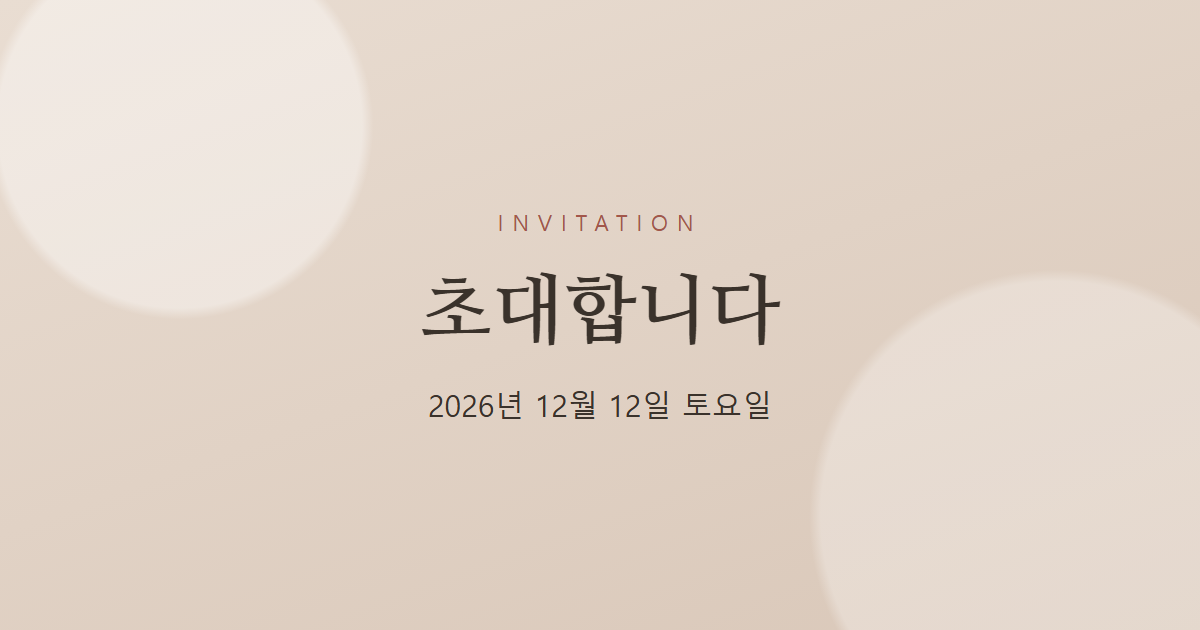
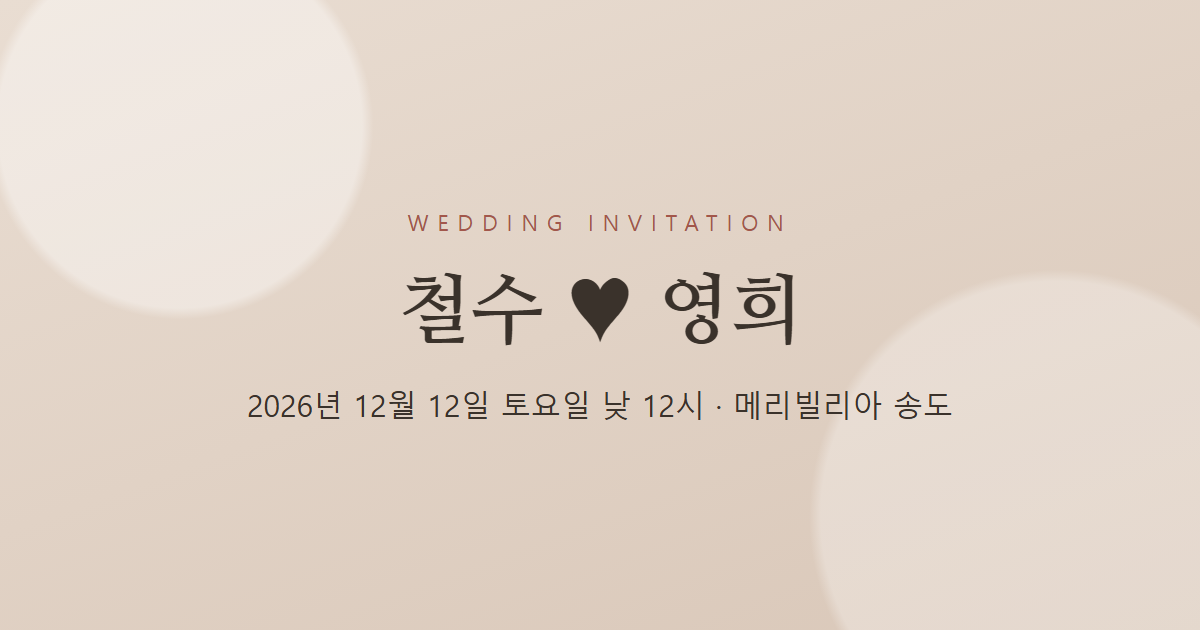
모바일 초대장에 신랑·신부와 예식장 반영, 키 없이도 지도 표시
- 신랑 철수 ♥ 신부 영희, 장소 메리빌리아 송도(인천 연수구 송도과학로16번길 33-1, 트리플스트리트 A동)
- 교통: 인천 1호선 테크노파크역 2번 출구 도보 약 5분
- 카카오 키가 없을 때 안내 문구 대신 구글 지도 삽입으로 위치 표시
- 좌표가 없으면 카카오 키가 있을 때 주소로 좌표를 찾고, 길찾기 링크는 장소 검색으로 연결
- 공유 미리보기 제목·설명·이미지를 신랑·신부 이름과 장소로 갱신

Changed region(s): [[0.3392, 0.4222, 0.6783, 0.5429], [0.185, 0.6032, 0.8017, 0.6635], [0.3392, 0.3317, 0.6475, 0.3619]]

diff --git a/apps/invitation/js/map.js b/apps/invitation/js/map.js
@@ -1,11 +1,25 @@
-// 카카오맵 표시와 길찾기 링크
+// 장소 지도와 길찾기 링크
+// 카카오 키가 있으면 카카오맵, 없거나 실패하면 키가 필요 없는 구글 지도 삽입으로 대신 보여 준다.
+
+function hasCoords(venue) {
+  return Number.isFinite(venue.lat) && Number.isFinite(venue.lng);
+}
 
 export function directionLinks(venue) {
-  const name = encodeURIComponent(venue.name);
+  const query = encodeURIComponent(venue.mapQuery || venue.name);
   return {
-    kakao: `https://map.kakao.com/link/to/${name},${venue.lat},${venue.lng}`,
-    naver: `https://map.naver.com/p/search/${encodeURIComponent(venue.address)}`,
+    // 좌표가 있으면 바로 길찾기, 없으면 장소 검색 결과로 연다
+    kakao: hasCoords(venue)
+      ? `https://map.kakao.com/link/to/${encodeURIComponent(venue.name)},${venue.lat},${venue.lng}`
+      : `https://map.kakao.com/link/search/${query}`,
+    naver: `https://map.naver.com/p/search/${query}`,
   };
+}
+
+// 키 없이 쓸 수 있는 구글 지도 삽입 주소
+export function embedMapUrl(venue) {
+  const q = hasCoords(venue) ? `${venue.lat},${venue.lng}` : (venue.mapQuery || venue.address);
+  return `https://maps.google.com/maps?q=${encodeURIComponent(q)}&z=16&hl=ko&output=embed`;
 }
 
 // 카카오맵 SDK를 한 번만 불러온다. 키가 없거나 실패하면 reject.
@@ -20,7 +34,8 @@ function loadKakaoSdk(key) {
       return;
     }
     const script = document.createElement('script');
-    script.src = `https://dapi.kakao.com/v2/maps/sdk.js?appkey=${encodeURIComponent(key)}&autoload=false`;
+    // services: 좌표가 없을 때 주소로 좌표를 찾는 데 쓴다
+    script.src = `https://dapi.kakao.com/v2/maps/sdk.js?appkey=${encodeURIComponent(key)}&libraries=services&autoload=false`;
     script.async = true;
     script.onload = () => {
       if (window.kakao && window.kakao.maps) window.kakao.maps.load(() => resolve(window.kakao));
@@ -31,17 +46,30 @@ function loadKakaoSdk(key) {
   });
 }
 
-// container: 지도를 넣을 요소, toggle: [지도 크게 보기] 버튼
-// 성공하면 true, 실패하면 false (호출한 쪽이 대체 화면을 보여 준다)
+function geocode(kakao, address) {
+  return new Promise((resolve, reject) => {
+    new kakao.maps.services.Geocoder().addressSearch(address, (result, status) => {
+      if (status === kakao.maps.services.Status.OK && result[0]) {
+        resolve(new kakao.maps.LatLng(Number(result[0].y), Number(result[0].x)));
+      } else {
+        reject(new Error('주소로 위치를 찾지 못했습니다'));
+      }
+    });
+  });
+}
+
+// container: 지도를 넣을 요소, toggle: [지도 움직이기] 버튼
+// 카카오맵을 띄우면 true, 실패하면 false (호출한 쪽이 구글 지도로 대신한다)
 export async function initMap(container, toggle, venue, key) {
   let kakao;
+  let center;
   try {
     kakao = await loadKakaoSdk(key);
+    center = hasCoords(venue) ? new kakao.maps.LatLng(venue.lat, venue.lng) : await geocode(kakao, venue.address);
   } catch {
     return false;
   }
 
-  const center = new kakao.maps.LatLng(venue.lat, venue.lng);
   // 페이지를 넘길 때 지도가 손가락을 잡지 않도록 처음에는 고정
   const map = new kakao.maps.Map(container, { center, level: 4, draggable: false, scrollwheel: false, disableDoubleClickZoom: true });
   map.setZoomable(false);

diff --git a/apps/invitation/js/config.js b/apps/invitation/js/config.js
@@ -2,21 +2,22 @@
 // [임시] 표시가 있는 값은 실제 정보를 받기 전의 자리표시다.
 
 export const CONFIG = {
-  // [임시] 행사 종류와 제목
   type: '결혼식',
-  title: '○○○ ♥ ○○○',
+  title: '철수 ♥ 영희',
   subtitle: '저희 두 사람, 결혼합니다',
 
   // [임시] 행사 일시 — 반드시 한국 시간대(+09:00)를 붙인다
   eventDate: '2026-12-12T12:00:00+09:00',
 
-  // [임시] 장소. 좌표는 주소를 받은 뒤 카카오맵에서 찾아 넣는다 (지금은 서울시청)
+  // 장소. lat/lng를 비워 두면 카카오 키가 있을 때 주소로 좌표를 찾는다.
+  // mapQuery: 키가 없을 때 쓰는 지도와 길찾기 검색어
   venue: {
-    name: '행사장 이름',
-    hall: '3층 그랜드홀',
-    address: '서울특별시 중구 세종대로 110',
-    lat: 37.5666,
-    lng: 126.9784,
+    name: '메리빌리아 송도',
+    hall: '트리플스트리트 A동',
+    address: '인천광역시 연수구 송도과학로16번길 33-1',
+    mapQuery: '메리빌리아 송도',
+    lat: null,
+    lng: null,
   },
 
   // [임시] 초대 인사말 (한 줄씩)
@@ -26,25 +27,23 @@ export const CONFIG = {
     '귀한 걸음 하시어 축복해 주시면',
     '더없는 기쁨으로 간직하겠습니다.',
   ],
-  hosts: '○○○ · ○○○ 드림',
+  hosts: '철수 · 영희 드림',
 
-  // [임시] 교통 안내
+  // 교통 안내 (버스·주차는 예식장에 확인한 뒤 추가)
   transport: [
-    { label: '지하철', text: '1·2호선 시청역 5번 출구에서 걸어서 2분' },
-    { label: '버스', text: '시청앞 정류장 하차' },
-    { label: '주차', text: '건물 지하 주차장 2시간 무료' },
+    { label: '지하철', text: '인천 1호선 테크노파크역 2번 출구에서 걸어서 약 5분' },
   ],
 
-  // [임시] 연락처. phone이 비어 있으면 전화·문자 버튼을 숨긴다
+  // 연락처. phone이 비어 있으면 전화·문자 버튼을 숨긴다
   contacts: [
-    { role: '신랑', name: '○○○', phone: '' },
-    { role: '신부', name: '○○○', phone: '' },
+    { role: '신랑', name: '철수', phone: '' },
+    { role: '신부', name: '영희', phone: '' },
   ],
 
   // 대표 사진. 비워 두면 무늬 배경을 쓴다 (예: 'images/cover.jpg')
   coverImage: '',
 
-  // 카카오 개발자 사이트에서 발급한 JavaScript 키. 비어 있으면 지도 대신 주소와 길찾기 버튼만 보여 준다.
-  // 허용 도메인(localhost, 배포 주소)을 카카오 개발자 콘솔에 꼭 등록한다. REST API 키·Admin 키는 넣지 않는다.
+  // 카카오 개발자 사이트에서 발급한 JavaScript 키. 비어 있으면 키가 필요 없는 구글 지도로 대신 보여 준다.
+  // 허용 도메인(localhost, https://choi-guest.github.io)을 카카오 개발자 콘솔에 꼭 등록한다. REST API 키·Admin 키는 넣지 않는다.
   kakaoJsKey: '',
 };

diff --git a/apps/invitation/index.html b/apps/invitation/index.html
@@ -3,15 +3,15 @@
 <head>
   <meta charset="utf-8">
   <meta name="viewport" content="width=device-width, initial-scale=1, viewport-fit=cover">
-  <title>초대합니다</title>
-  <meta name="description" content="소중한 날에 초대합니다">
+  <title>철수 ♥ 영희 결혼합니다</title>
+  <meta name="description" content="2026년 12월 12일 토요일 낮 12시, 메리빌리아 송도">
   <meta name="theme-color" content="#f7f3ee" media="(prefers-color-scheme: light)">
   <meta name="theme-color" content="#1d1a17" media="(prefers-color-scheme: dark)">
   <!-- 공유 미리보기: 카카오톡·문자 미리보기는 절대 주소여야 한다. 배포 주소가 바뀌면 함께 바꾼다 -->
   <meta property="og:type" content="website">
   <meta property="og:url" content="https://choi-guest.github.io/myblog/apps/invitation/">
-  <meta property="og:title" content="초대합니다">
-  <meta property="og:description" content="2026년 12월 12일 토요일, 소중한 날에 초대합니다">
+  <meta property="og:title" content="철수 ♥ 영희 결혼합니다">
+  <meta property="og:description" content="2026년 12월 12일 토요일 낮 12시, 메리빌리아 송도">
   <meta property="og:image" content="https://choi-guest.github.io/myblog/apps/invitation/images/og.png">
   <meta property="og:image:width" content="1200">
   <meta property="og:image:height" content="630">
@@ -68,9 +68,7 @@
       <p class="venue-address" data-field="address"></p>
       <div class="map-wrap">
         <div class="map" data-map role="region" aria-label="행사장 위치 지도"></div>
-        <div class="map-fallback" data-map-fallback hidden>
-          <p>지도를 불러오지 못했습니다.<br>아래 버튼으로 길찾기를 이용해 주세요.</p>
-        </div>
+        <div class="map-fallback" data-map-fallback hidden></div>
         <button class="map-toggle" type="button" data-map-toggle aria-pressed="false" hidden>지도 움직이기</button>
       </div>
       <div class="button-row">

diff --git a/apps/invitation/js/main.js b/apps/invitation/js/main.js
@@ -2,7 +2,7 @@
 
 import { CONFIG } from './config.js';
 import { getDday, ddayLabel, kstParts, monthGrid, WEEKDAYS, formatEventDate } from './dday.js';
-import { directionLinks, initMap } from './map.js';
+import { directionLinks, embedMapUrl, initMap } from './map.js';
 
 const eventDate = new Date(CONFIG.eventDate);
 const $ = (sel) => document.querySelector(sel);
@@ -121,7 +121,14 @@ async function setupMap() {
 
   const ok = await initMap($('[data-map]'), $('[data-map-toggle]'), CONFIG.venue, CONFIG.kakaoJsKey);
   if (!ok) {
+    // 카카오 키가 없거나 실패: 키가 필요 없는 구글 지도를 넣는다
     $('[data-map]').hidden = true;
+    const frame = el('iframe', 'map-embed');
+    frame.src = embedMapUrl(CONFIG.venue);
+    frame.title = `${CONFIG.venue.name} 위치 지도`;
+    frame.loading = 'lazy';
+    frame.referrerPolicy = 'no-referrer-when-downgrade';
+    $('[data-map-fallback]').replaceChildren(frame);
     $('[data-map-fallback]').hidden = false;
   }
 }

diff --git a/apps/invitation/css/style.css b/apps/invitation/css/style.css
@@ -243,10 +243,16 @@ p { margin: 0; }
   display: flex;
   align-items: center;
   justify-content: center;
-  padding: 24px;
   background: var(--accent-soft);
   color: var(--text-muted);
   font-size: 15px;
+}
+
+.map-embed {
+  display: block;
+  width: 100%;
+  height: 100%;
+  border: 0;
 }
 
 .map-toggle {

diff --git a/apps/invitation/CLAUDE.md b/apps/invitation/CLAUDE.md
@@ -5,7 +5,7 @@
 스마트폰에서 보기 좋은 **모바일 반응형 초대장 웹페이지**. 링크 하나로 열어 보는 한 장짜리 페이지다.
 
 - 프레임워크·빌드 도구 없이 **HTML, CSS, JavaScript만** 쓴다. npm, 번들러, `package.json`을 만들지 않는다.
-- 외부 라이브러리는 쓰지 않는다. 예외는 **카카오맵 JavaScript SDK** 하나다.
+- 외부 라이브러리는 쓰지 않는다. 예외는 **카카오맵 JavaScript SDK** 하나다. 카카오 키가 없을 때는 키가 필요 없는 구글 지도 삽입(iframe)으로 대신한다.
 - 핵심 기능은 두 가지다.
   1. **D-Day**: 행사일까지 남은 시간
   2. **장소 지도**: 카카오맵
@@ -57,11 +57,12 @@ node serve.mjs 8000
   - REST API 키나 Admin 키는 절대 넣지 않는다.
 - SDK는 `autoload=false`로 불러오고 `kakao.maps.load()` 안에서 지도를 만든다.
 - 지도에 장소 마커와 장소명 표시. 확대·축소 버튼을 넣고, 휴대폰에서 페이지를 스크롤할 때 지도가 손가락을 가로채지 않게 한다(`draggable: false` 기본, "지도 크게 보기"를 누르면 조작 가능).
+- 좌표(`lat`, `lng`)를 비워 두면 카카오 키가 있을 때 `services` 라이브러리로 주소에서 좌표를 찾는다.
 - 지도 아래 버튼:
-  - **카카오맵 길찾기**: `https://map.kakao.com/link/to/장소명,위도,경도`
-  - **네이버 지도**, **티맵** 링크(선택)
-  - **주소 복사**: `navigator.clipboard.writeText`, 실패하면 주소를 선택된 상태로 보여 준다
-- 키가 없거나 SDK를 못 불러오면 빈 회색 칸 대신 주소 텍스트와 길찾기 버튼만 보여 준다.
+  - **카카오맵 길찾기**: 좌표가 있으면 `https://map.kakao.com/link/to/장소명,위도,경도`, 없으면 `https://map.kakao.com/link/search/검색어`
+  - **네이버 지도**: `https://map.naver.com/p/search/검색어` (티맵은 별도 키가 필요해 넣지 않음)
+  - **주소 복사**: `navigator.clipboard.writeText`, 실패하면 주소를 복사할 수 있게 보여 준다
+- 키가 없거나 SDK·좌표 찾기에 실패하면 구글 지도 삽입(`maps.google.com/maps?q=검색어&output=embed`)으로 지도를 보여 준다.
 
 ### 3. 그 밖의 구성 (권장 순서)
 1. 표지: 대표 사진, 제목, 일시
@@ -105,7 +106,7 @@ node serve.mjs 8000
 
 1. 휴대폰 폭(375px)과 작은 폭(320px)에서 가로 스크롤이 없는지
 2. D-Day가 행사 전·당일·후에 맞게 바뀌는지 (Node로 `getDday`에 날짜를 넣어 확인)
-3. 지도가 뜨는지, 키가 없을 때 대체 화면이 나오는지
+3. 지도가 뜨는지, 키가 없을 때 구글 지도로 대신 나오는지
 4. 길찾기·전화·주소 복사 버튼이 동작하는지
 5. 라이트/다크 모드 모두 글자가 잘 보이는지
 6. 브라우저 콘솔에 오류가 없는지
